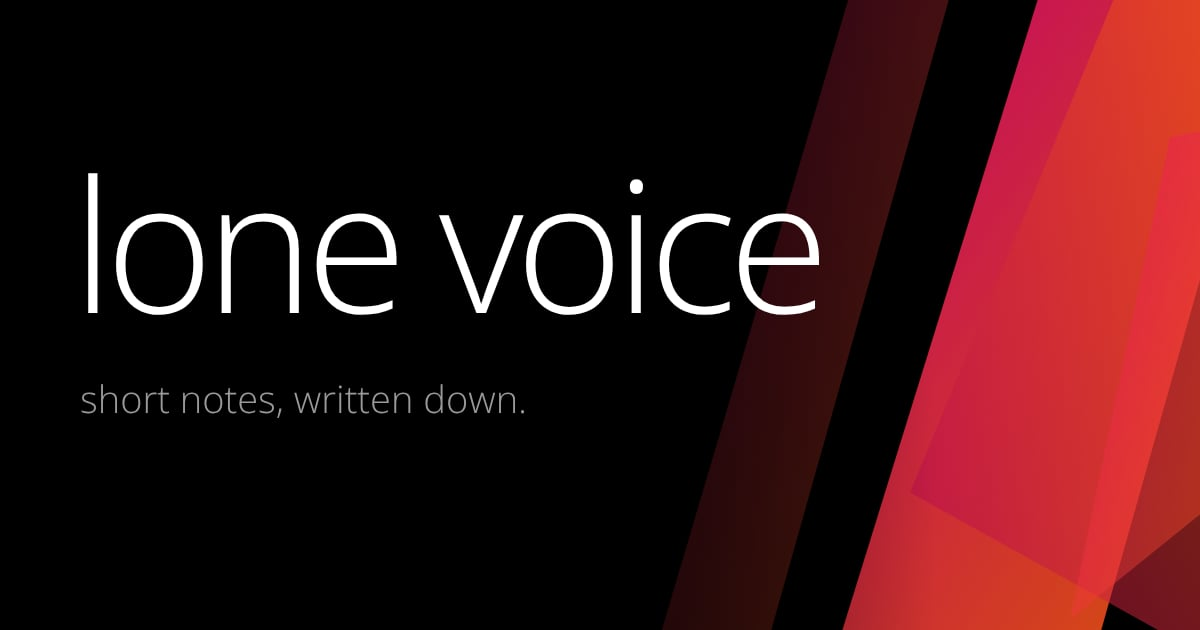
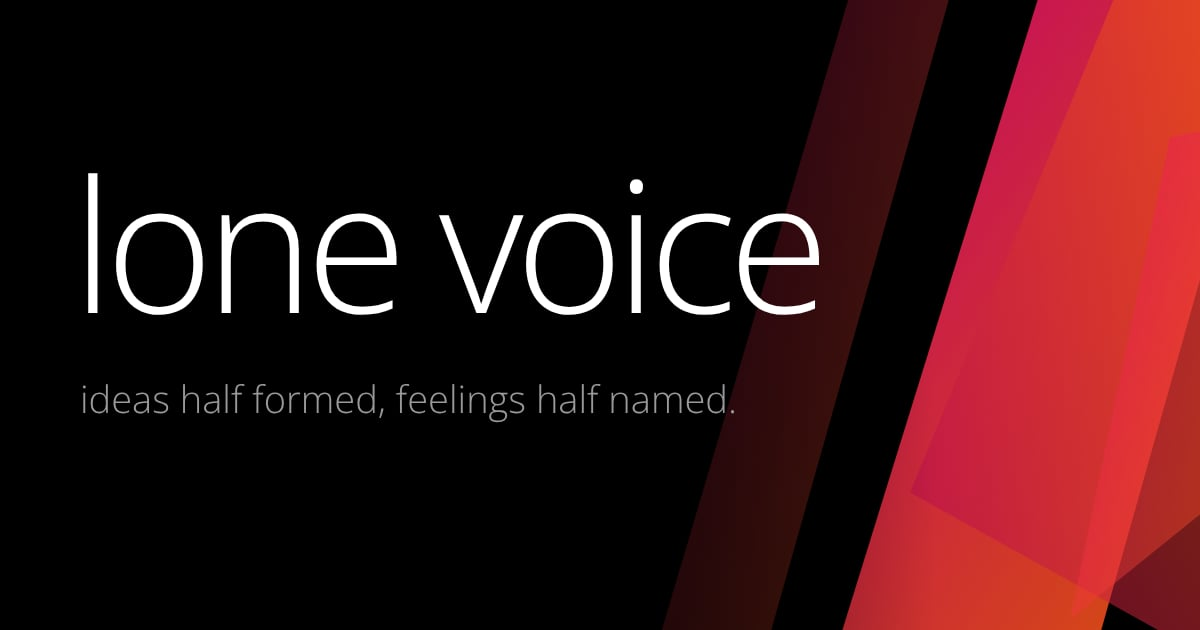
Regenerate the link-preview image with the new tagline
Claude-Session: https://claude.ai/code/session_01FJNZV25Hy3PNAUef7AtMLo

Changed region(s): [[0.0617, 0.6032, 0.6167, 0.6635]]

diff --git a/CLAUDE.md b/CLAUDE.md
@@ -128,7 +128,7 @@ Built on Astro's `<ClientRouter />` (in `BaseHead.astro`), so pages swap without
 ## SEO (`BaseHead.astro`, `src/lib/seo.ts`)
 
 - **Every page:** unique title and description, canonical link, `robots` meta, Open Graph and Twitter tags.
-- **Link-preview images:** 1200×630 — covers are cropped with `getImage`; other pages use `public/og-default.jpg`.
+- **Link-preview images:** 1200×630 — covers are cropped with `getImage`; other pages use `public/og-default.jpg`. That image shows "lone voice" and the tagline; regenerate it whenever `SITE.tagline` changes (render an HTML page with Open Sans 300 and the Zune shapes at 1200×630 in Playwright, then save as JPEG).
 - **Clean URLs:** `trailingSlash: 'always'`.
 - **Structured data (JSON-LD):** `WebSite` with a `SearchAction` on page 1, `BlogPosting` and `BreadcrumbList` on posts, breadcrumbs on topic pages.
 - **Crawling:**
@@ -184,7 +184,6 @@ public/                 favicon.svg, apple-touch-icon.png, og-default.jpg
 - **Waiting on the owner:**
   - Real content (posts, About, policies, intro text).
   - Submit `https://lonevoice.pages.dev/sitemap-index.xml` to Google Search Console and Bing (and again if a custom domain is added later).
-  - `public/og-default.jpg` (the link-preview image) still shows the old tagline "short notes, written down."; regenerate it if the owner wants it to match.
   - Checking motion on the iPhone.
 - **Offered but not chosen yet:**
   - `public/_headers` for long cache times and security headers.
